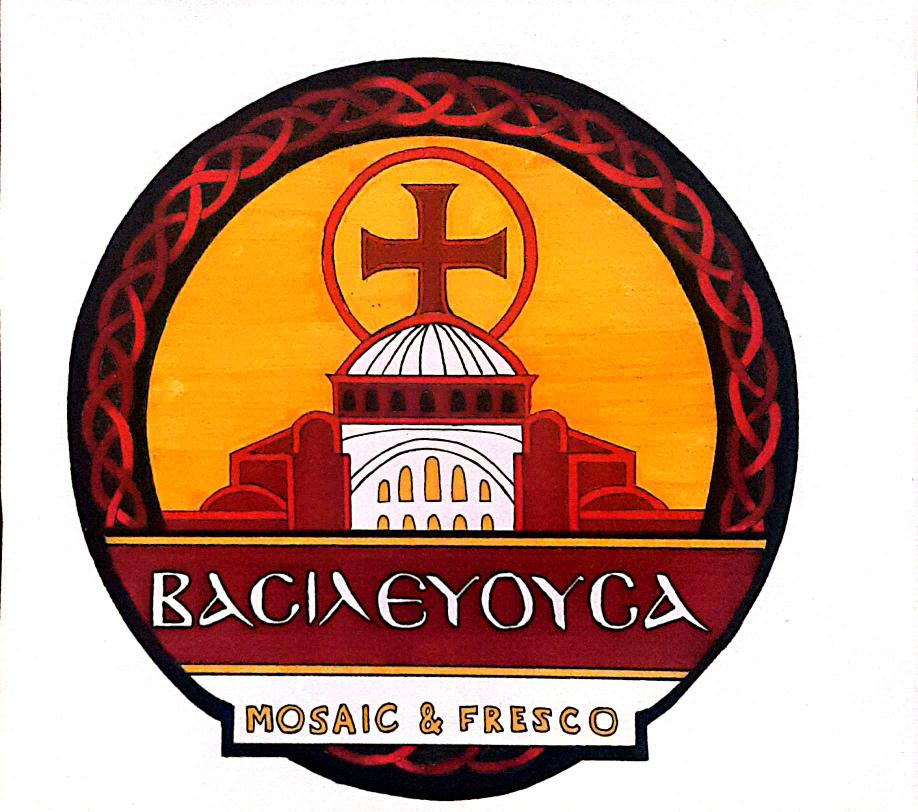
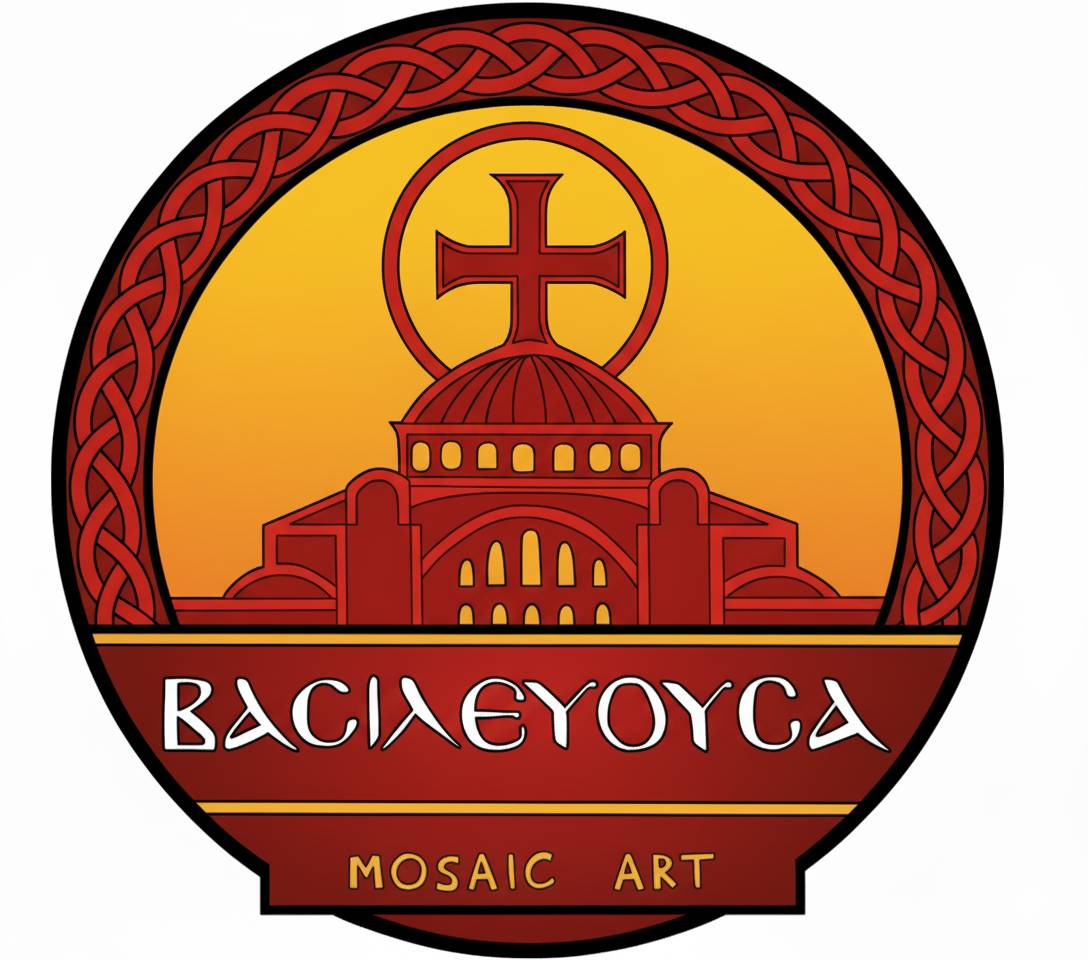
Add files via upload

diff --git a/about.html b/about.html
@@ -4,7 +4,14 @@
   <meta charset="UTF-8">
   <meta name="viewport" content="width=device-width, initial-scale=1">
   <title>About - Vasilevousa</title>
-  <link rel="icon" href="images/vasilevousa.jpg" type="image/x-icon"> 
+  <link rel="icon" href="images/vasilevousaPNG.png" type="image/x-icon">
+  <link rel="preconnect" href="https://fonts.googleapis.com">
+  <link rel="preconnect" href="https://fonts.gstatic.com" crossorigin>
+  <link href="https://fonts.googleapis.com/css2?family=Uncial+Antiqua&display=swap" rel="stylesheet">
+  <!-- Bootstrap CSS -->
+  <link href="https://cdn.jsdelivr.net/npm/bootstrap@5.3.0/dist/css/bootstrap.min.css" rel="stylesheet">
+  <link href="https://fonts.googleapis.com/css?family=Bentham|Playfair+Display|Raleway:400,500|Suranna|Trocchi" rel="stylesheet">
+
   <!-- Bootstrap CSS -->
   <link href="https://cdn.jsdelivr.net/npm/bootstrap@5.3.0/dist/css/bootstrap.min.css" rel="stylesheet">
 
@@ -14,46 +21,49 @@
 </head>
 <body  style="background-color: #eabeab;">
 
-  <!-- Navbar -->
-  <nav class="navbar navbar-expand-lg navbar-dark fixed-top" style="background-color: brown;">
-    <div class="container d-flex align-items-center">
+    <!-- Navbar -->
+<nav class="navbar navbar-expand-lg navbar-dark fixed-top" style="background-color: brown;">
+  <div class="container d-flex align-items-center">
 
-      <!-- Logo + Socials -->
-      <div class="d-flex align-items-center logos">
-        <a class="navbar-brand d-flex align-items-center" href="index.html">
-          <img src="images/vasilevousa.jpg" alt="Logo" class="rounded me-2" style="height: 55px;">
-          VASILEVOUSA - MOSAIC ART
-        </a>
-        <a href="https://www.instagram.com/koumasweb" target="_blank" class="d-flex align-items-center">
-          <img src="images/instagram-new--v2.png" alt="Instagram" style="height: 30px; width: 30px;">
-        </a>
-        <a href="https://www.facebook.com/share/17PwXqmmLV/" target="_blank" class="d-flex align-items-center">
-          <img src="images/Facebook-icon-white-PNG-large-size.png" alt="fb" style="height: 25px; width: 27px; margin-left: 10px;">
-        </a>
-      </div>
-
-      <!-- Hamburger Toggler -->
-      <button class="navbar-toggler" type="button" data-bs-toggle="collapse" data-bs-target="#navbarNav"
-        aria-controls="navbarNav" aria-expanded="false" aria-label="Toggle navigation">
-        <span class="navbar-toggler-icon"></span>
-      </button>
-
-      <!-- Nav Links -->
-      <div class="collapse navbar-collapse" id="navbarNav">
-        <ul class="navbar-nav ms-auto">
-          <li class="nav-item"><a class="nav-link" href="index.html">HOME</a></li>
-          <li class="nav-item"><a class="nav-link" href="gallery.html">GALLERY</a></li>
-          <li class="nav-item"><a class="nav-link" href="orderRequest.html">ORDER REQUEST</a></li>
-          <li class="nav-item"><a class="nav-link active" href="about.html">ABOUT</a></li>
-        </ul>
-      </div>
+    <!-- Logo + Instagram side by side -->
+    <div class="d-flex align-items-center logos">
+      <a class="navbar-brand d-flex align-items-center" href="index.html">
+        <img src="images/vasilevousaPNG.png" alt="Logo" class="rounded me-2" style="height: 55px;">
+        VASILEVOUSA
+      </a>
+      <a href="https://www.instagram.com/koumasweb" target="_blank" class="d-flex align-items-center">
+        <img src="images/instagram-new--v2.png" alt="Instagram" style="height: 30px; width: 30px;">
+      </a>
+      <a href="https://www.facebook.com/share/17PwXqmmLV/" target="_blank" class="d-flex align-items-center">
+        <img src="images/Facebook-icon-white-PNG-large-size.png" alt="fb" style="height: 25px; width: 27px; margin-left: 10px;">
+      </a>
     </div>
-  </nav>
+
+    <!-- Hamburger Toggler -->
+    <button class="navbar-toggler" type="button" data-bs-toggle="collapse" data-bs-target="#navbarNav"
+      aria-controls="navbarNav" aria-expanded="false" aria-label="Toggle navigation">
+      <span class="navbar-toggler-icon"></span>
+    </button>
+
+    <!-- Nav Links -->
+    <div class="collapse navbar-collapse" id="navbarNav">
+      <ul class="navbar-nav ms-auto">
+        <li class="nav-item"><a class="nav-link" href="index.html">HOME</a></li>
+        <li class="nav-item"><a class="nav-link" href="gallery.html">GALLERY</a></li>
+        <li class="nav-item"><a class="nav-link active" href="orderRequest.html">ORDER REQUEST</a></li>
+        <li class="nav-item"><a class="nav-link" href="about.html">ABOUT</a></li>
+      </ul>
+    </div>
+
+  </div>
+</nav>
+
 
 <!-- Hero Section -->
 <section class="hero4 d-flex align-items-center justify-content-center text-center">
   <div style="padding-top: 100px;" class="hero-content">
     <h1>About Vasilevousa</h1>
+     <img src="images/vasilevousaPNG.png" style="height: 180px; margin-bottom: 30px; margin-top: 30px;"> 
     <p class="lead">The Artist Behind the Mosaics – <strong>Pantelis Miamiliotis</strong></p>
 
   </div>
@@ -85,6 +95,28 @@
       </div>
     </div>
   </section>
+
+
+<!-- Contact Section -->
+<section class="container my-5">
+    <div class="row g-4">
+        <div class="col-md-6">
+            <h2>Get in Touch</h2>
+            <p><strong>Address:</strong> Κοντεμένου 25, Κοκκινοτριμιθιά, Λευκωσία.</p>
+            <p><strong>Phone:</strong> +357 99712390</p>
+        </div>
+        <div class="col-md-6">
+            <h2>Find Us</h2>
+            <!-- Google Maps Embed -->
+            <div class="ratio ratio-16x9"> 
+              <iframe
+                    src="https://www.google.com/maps/embed?pb=!1m18!1m12!1m3!1d13080.811894412018!2d33.412856219772415!3d34.95152105470971!2m3!1f0!2f0!3f0!3m2!1i1024!2i768!4f13.1!3m3!1m2!1s0x14e0a10018060107%3A0xea98eac18f7476c2!2sPet%20Love%20Studio!5e0!3m2!1sel!2s!4v1756338600162!5m2!1sel!2s" width="600" height="450" style="border:0; box-shadow: 0px 0px 7px rgba(0,0,0,0.55); border-radius: 10px;" allowfullscreen="" loading="lazy" referrerpolicy="no-referrer-when-downgrade"></iframe>
+                    
+                </iframe>
+            </div>
+        </div>
+    </div>
+</section>
 
   <!-- Footer -->
   <footer class="text-light py-4" style="background-color: brown; margin-top: 0 !important;">

diff --git a/gallery.html b/gallery.html
@@ -5,7 +5,7 @@
   <meta charset="UTF-8">
   <meta name="viewport" content="width=device-width, initial-scale=1">
   <title>Vasilevousa</title>
-  <link rel="icon" href="images/vasilevousa.jpg" type="image/x-icon">
+  <link rel="icon" href="images/vasilevousaPNG.png" type="image/x-icon">
   <link rel="preconnect" href="https://fonts.googleapis.com">
   <link rel="preconnect" href="https://fonts.gstatic.com" crossorigin>
   <link href="https://fonts.googleapis.com/css2?family=Uncial+Antiqua&display=swap" rel="stylesheet">
@@ -28,8 +28,8 @@
     <!-- Logo + Instagram side by side -->
     <div class="d-flex align-items-center logos">
       <a class="navbar-brand d-flex align-items-center" href="index.html">
-        <img src="images/vasilevousa.jpg" alt="Logo" class="rounded me-2" style="height: 55px;">
-        VASILEVOUSA - MOSAIC ART
+        <img src="images/vasilevousaPNG.png" alt="Logo" class="rounded me-2" style="height: 55px;">
+        VASILEVOUSA
       </a>
       <a href="https://www.instagram.com/koumasweb" target="_blank" class="d-flex align-items-center">
         <img src="images/instagram-new--v2.png" alt="Instagram" style="height: 30px; width: 30px;">
@@ -61,11 +61,17 @@
           <!-- Hero Section -->
     <section class="hero2 d-flex align-items-center justify-content-center text-center">
         <div style="padding-top: 100px;" class="hero-content">
-            <h1>Unique, High Quality, Handmade Mosaic Art by Pantelis Miamiliotis</h1>
-            <p>Timeless Craftmanship.</p>           
+            
+             <img src="images/vasilevousaPNG.png" style="height: 180px; margin-bottom: 30px; margin-top: 30px;"> 
+            <p>Each piece is unique, custom-made, and crafted with passion. </p>
+             <p>Timeless Craftmanship.</p>           
         </div>
     </section>
   
+    <div style="display: flex; justify-content: center; margin-top: 20px;">
+      <h1 style="font-family: Bentham, serif"><strong>Vasilevousa Mosaic Art Gallery</strong></h1>
+    </div>
+    
 
 <div style="display: flex; flex-direction: column;">
     <div class="wrapper">
@@ -96,9 +102,12 @@
 Διαστάσεις: 60cm x 70cm.<br>
 Διάρκεια: Σεπτέμβριος 2024- Μάρτιος 2025.</p>
     </div>
-    <div class="product-price-btn">
-      <p style="margin-top: 13px;"><span>78</span>$</p>
-      <button type="button">buy now</button>
+    <div class="product-price-btn" style="align-items: center;">
+      <p><span>200</span>€</p>
+      <a href="orderRequest.html">
+        <button type="button">REQUEST ORDER</button>
+      </a>
+      
     </div>
   </div>
 </div>
@@ -128,8 +137,37 @@
       Διάρκεια: Δεκέμβριος 2023- Μάϊος 2024.</p>
     </div>
     <div class="product-price-btn">
-      <p style="margin-top: 13px;"><span>78</span>$</p>
-      <button type="button">buy now</button>
+    <p><span>170</span>€</p>
+            <a href="orderRequest.html">
+        <button type="button">REQUEST ORDER</button>
+      </a>
+      
+    </div>
+  </div>
+</div>
+
+<div class="wrapper">
+  <div class="product-img">
+    <div class="carousel">
+      <button class="arrow left">&#10094;</button>
+      <img src="images/Fish.png" class="carousel-img active" />
+      <img src="images/Fish2.png" class="carousel-img" />
+      <button class="arrow right">&#10095;</button>
+    </div>
+  </div>
+
+  <div class="product-info">
+    <div class="product-text">
+      <h1>Fish.</h1>
+      <h2>by PANTELIS MIAMILIOTIS</h2>
+      <p>30cm x 18cm<br>First mosaic using authentic handcrafted italian smalti stone. <br> Thanks to Cyprus Handicraft Service.</p>
+    </div>
+    <div class="product-price-btn">
+    <p><span>50</span>€</p>
+            <a href="orderRequest.html">
+        <button type="button">REQUEST ORDER</button>
+      </a>
+      
     </div>
   </div>
 </div>

diff --git a/orderRequest.html b/orderRequest.html
@@ -4,7 +4,14 @@
   <meta charset="UTF-8">
   <meta name="viewport" content="width=device-width, initial-scale=1">
   <title>Vasilevousa - Order Request</title>
-  <link rel="icon" href="images/vasilevousa.jpg" type="image/x-icon"> 
+  <link rel="icon" href="images/vasilevousaPNG.png" type="image/x-icon">
+  <link rel="preconnect" href="https://fonts.googleapis.com">
+  <link rel="preconnect" href="https://fonts.gstatic.com" crossorigin>
+  <link href="https://fonts.googleapis.com/css2?family=Uncial+Antiqua&display=swap" rel="stylesheet">
+  <!-- Bootstrap CSS -->
+  <link href="https://cdn.jsdelivr.net/npm/bootstrap@5.3.0/dist/css/bootstrap.min.css" rel="stylesheet">
+  <link href="https://fonts.googleapis.com/css?family=Bentham|Playfair+Display|Raleway:400,500|Suranna|Trocchi" rel="stylesheet">
+
   <!-- Bootstrap CSS -->
   <link href="https://cdn.jsdelivr.net/npm/bootstrap@5.3.0/dist/css/bootstrap.min.css" rel="stylesheet">
 
@@ -14,15 +21,15 @@
 </head>
 <body style="background-color: #eabeab;;">
 
-  <!-- Navbar -->
+    <!-- Navbar -->
 <nav class="navbar navbar-expand-lg navbar-dark fixed-top" style="background-color: brown;">
   <div class="container d-flex align-items-center">
 
-    <!-- Logo + Socials -->
+    <!-- Logo + Instagram side by side -->
     <div class="d-flex align-items-center logos">
       <a class="navbar-brand d-flex align-items-center" href="index.html">
-        <img src="images/vasilevousa.jpg" alt="Logo" class="rounded me-2" style="height: 55px;">
-        VASILEVOUSA - MOSAIC ART
+        <img src="images/vasilevousaPNG.png" alt="Logo" class="rounded me-2" style="height: 55px;">
+        VASILEVOUSA
       </a>
       <a href="https://www.instagram.com/koumasweb" target="_blank" class="d-flex align-items-center">
         <img src="images/instagram-new--v2.png" alt="Instagram" style="height: 30px; width: 30px;">
@@ -52,9 +59,10 @@
 </nav>
 
 <!-- Hero Section -->
-<section class="hero d-flex align-items-center justify-content-center text-center">
+<section class="hero2 d-flex align-items-center justify-content-center text-center">
   <div style="padding-top: 100px;" class="hero-content">
     <h1>Order Your Handmade Mosaic</h1>
+    <img src="images/vasilevousaPNG.png" style="height: 180px; margin-bottom: 30px; margin-top: 30px;"> 
     <p>Each piece is unique, custom-made, and crafted with passion. <br>Fill out the form below to request your mosaic artwork.</p>
   </div>
 </section>
@@ -89,6 +97,7 @@
         <option value="">-- Select Artwork --</option>
         <option value="Virgin Mary Icon">Most Holy Theotokos</option>
         <option value="Custom Request">Martyr Therinus</option>
+        <option value="Custom Request">Fish.</option>
       </select>
     </div>
 
@@ -120,7 +129,7 @@
       <a href="https://instagram.com/koumasweb" target="_blank" class="text-warning text-decoration-none">Follow us on Instagram</a> | 
       <a href="orderRequest.html" class="text-warning text-decoration-none">Contact Us</a>
     </p>
-    <div style="font-size: 10px; margin-top: 5px;">
+    <div style="font-size: 12px; margin-top: 5px;">
       Made and designed by <a href="https://koumasweb.com" target="_blank" class="text-warning">KoumasWeb</a> ©
     </div>
   </div>
@@ -128,5 +137,7 @@
 
 <!-- Bootstrap JS -->
 <script src="https://cdn.jsdelivr.net/npm/bootstrap@5.3.0/dist/js/bootstrap.bundle.min.js"></script>
+
+
 </body>
 </html>

diff --git a/index.html b/index.html
@@ -5,7 +5,7 @@
   <meta charset="UTF-8">
   <meta name="viewport" content="width=device-width, initial-scale=1">
   <title>Vasilevousa</title>
-  <link rel="icon" href="images/vasilevousa.jpg" type="image/x-icon">
+  <link rel="icon" href="images/vasilevousaPNG.png" type="image/x-icon">
   <link rel="preconnect" href="https://fonts.googleapis.com">
   <link rel="preconnect" href="https://fonts.gstatic.com" crossorigin>
   <link href="https://fonts.googleapis.com/css2?family=Uncial+Antiqua&display=swap" rel="stylesheet">
@@ -25,8 +25,8 @@
     <!-- Logo + Instagram side by side -->
     <div class="d-flex align-items-center logos">
       <a class="navbar-brand d-flex align-items-center" href="index.html">
-        <img src="images/vasilevousa.jpg" alt="Logo" class="rounded me-2" style="height: 55px;">
-        VASILEVOUSA - MOSAIC ART
+        <img src="images/vasilevousaPNG.png" alt="Logo" class="rounded me-2" style="height: 55px;">
+        VASILEVOUSA
       </a>
       <a href="https://www.instagram.com/koumasweb" target="_blank" class="d-flex align-items-center">
         <img src="images/instagram-new--v2.png" alt="Instagram" style="height: 30px; width: 30px;">
@@ -58,7 +58,9 @@
           <!-- Hero Section -->
     <section class="hero d-flex align-items-center justify-content-center text-center">
         <div style="padding-top: 100px;" class="hero-content">
-            <h1>Unique, High Quality, Handmade Mosaic Art by Pantelis Miamiliotis</h1>
+          <h1>Welcome to</h1>
+          <img src="images/vasilevousaPNG.png" style="height: 180px; margin-bottom: 30px; margin-top: 30px;">  
+          <h1>Unique, High Quality, Handmade Mosaic Art<br> by Pantelis Miamiliotis</h1>
             <p>Timeless Craftmanship.</p>
             <a href="gallery.html">
                <button style="margin-top: 5px; margin-bottom: 40px;" class="super-button">

diff --git a/styles/productCard.css b/styles/productCard.css
@@ -145,7 +145,7 @@ body {
 .product-price-btn button {
   border: none;
   border-radius: 60px;
-  background-color: #9cebd5;
+  background-color: #a5782a;
   color: #fff;
   font-family: 'Raleway', sans-serif;
   font-weight: 500;
@@ -157,7 +157,7 @@ body {
 }
 
 .product-price-btn button:hover {
-  background-color: #79b0a1;
+  background-color: #a52a2a;
   transform: scale(1.05);
 }
 
